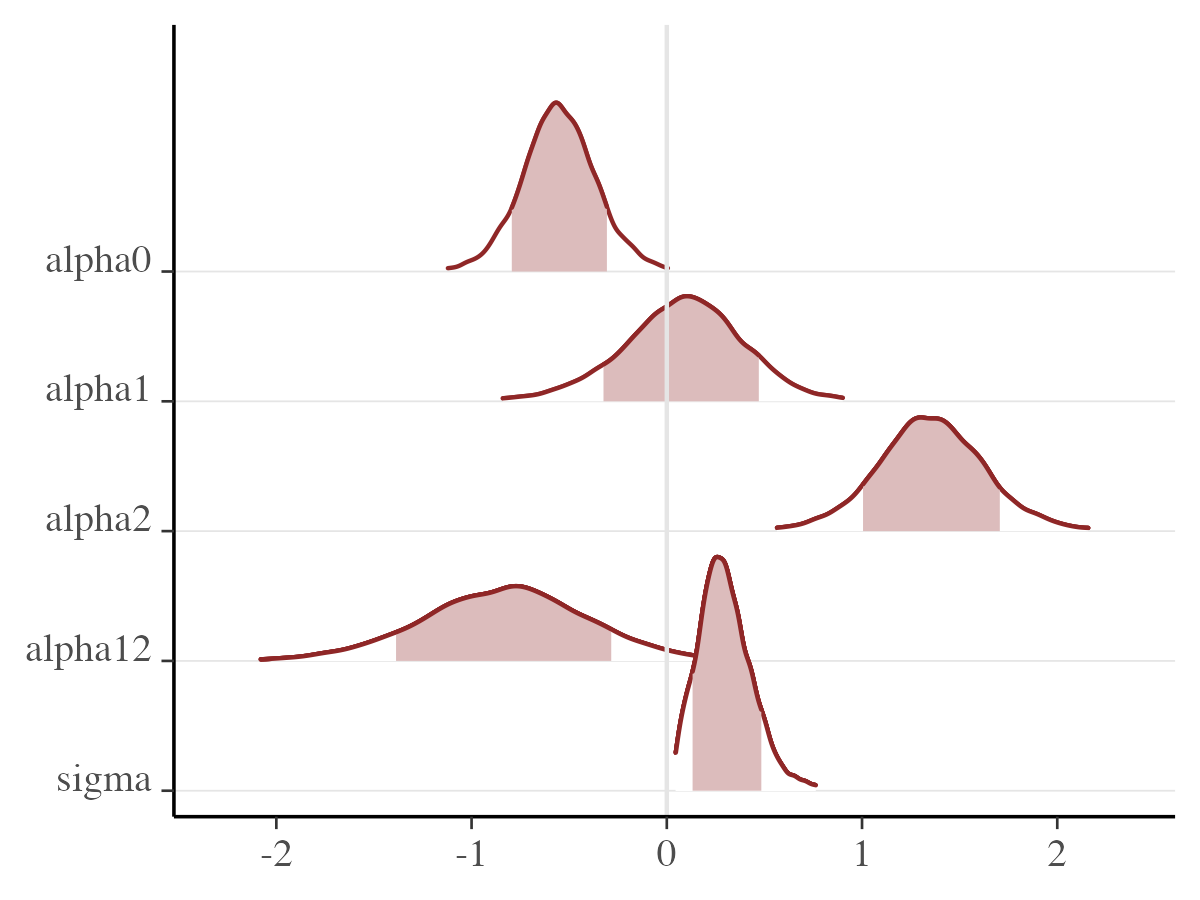
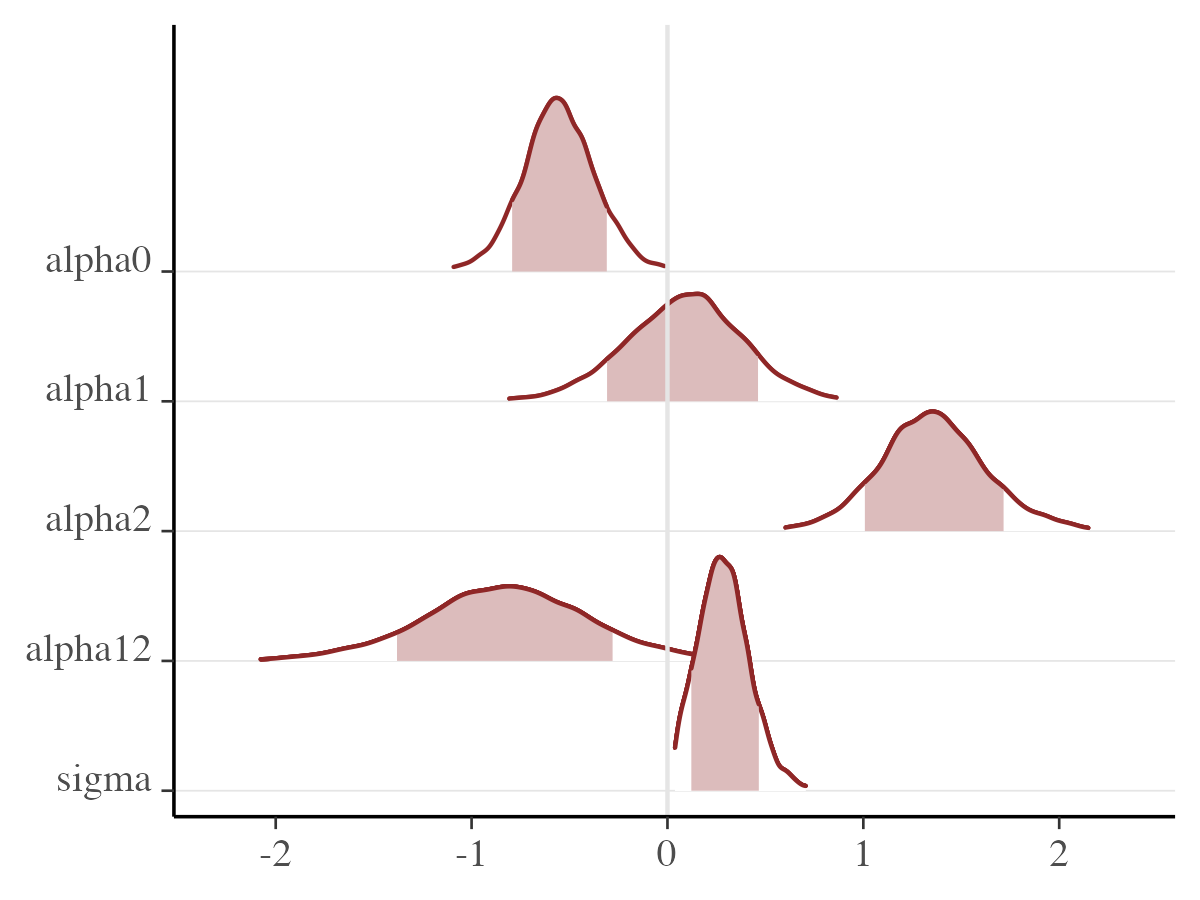
deploy: 7da60b03244aa2bed33e3e3292d3290ee1c009dc

diff --git a/articles/rjuliabugs.html b/articles/rjuliabugs.html
@@ -261,17 +261,17 @@ through <code>summary</code> function</p>
 <span><span class="co">#&gt; </span></span>
 <span><span class="co">#&gt; Summary Statistics:</span></span>
 <span><span class="co">#&gt; </span></span>
-<span><span class="co">#&gt;  parameters     mean     std     mcse ess_bulk ess_tail  rhat ess_per_sec</span></span>
-<span><span class="co">#&gt;         tau 38.19499 87.7708 5.207790    383.2    354.2 1.011          NA</span></span>
-<span><span class="co">#&gt;     alpha12 -0.83813  0.4283 0.007314   3413.9   4329.9 1.001          NA</span></span>
-<span><span class="co">#&gt;      alpha2  1.35857  0.2695 0.004753   3205.4   3827.6 1.001          NA</span></span>
-<span><span class="co">#&gt;      alpha1  0.08687  0.3147 0.005616   3158.4   3895.4 1.001          NA</span></span>
-<span><span class="co">#&gt;      alpha0 -0.55555  0.1928 0.003253   3481.0   4182.8 1.002          NA</span></span>
-<span><span class="co">#&gt;        b[1] -0.19515  0.2637 0.005728   2380.7   4131.8 1.002          NA</span></span>
-<span><span class="co">#&gt;        b[2]  0.01300  0.2267 0.002888   6299.0   4672.9 1.005          NA</span></span>
-<span><span class="co">#&gt;        b[3] -0.19822  0.2310 0.004860   2415.3   4143.3 1.002          NA</span></span>
-<span><span class="co">#&gt;        b[4]  0.28028  0.2569 0.006624   1520.1   4234.5 1.004          NA</span></span>
-<span><span class="co">#&gt;        b[5]  0.11782  0.2392 0.003572   4679.1   4643.2 1.002          NA</span></span>
+<span><span class="co">#&gt;  parameters      mean     std     mcse ess_bulk ess_tail  rhat ess_per_sec</span></span>
+<span><span class="co">#&gt;         tau 42.200346 96.7815 5.900641    298.1    344.5 1.014          NA</span></span>
+<span><span class="co">#&gt;     alpha12 -0.826292  0.4337 0.007385   3464.8   3851.8 1.002          NA</span></span>
+<span><span class="co">#&gt;      alpha2  1.350455  0.2702 0.004640   3485.5   3349.6 1.001          NA</span></span>
+<span><span class="co">#&gt;      alpha1  0.080853  0.3091 0.005319   3388.9   4392.6 1.002          NA</span></span>
+<span><span class="co">#&gt;      alpha0 -0.547457  0.1896 0.003195   3572.0   3701.3 1.002          NA</span></span>
+<span><span class="co">#&gt;        b[1] -0.201043  0.2580 0.006237   1854.3   3990.9 1.002          NA</span></span>
+<span><span class="co">#&gt;        b[2]  0.006336  0.2205 0.002939   5843.6   4046.4 1.003          NA</span></span>
+<span><span class="co">#&gt;        b[3] -0.205028  0.2327 0.005533   1848.0   4373.8 1.003          NA</span></span>
+<span><span class="co">#&gt;        b[4]  0.271345  0.2593 0.007282   1261.2   3767.5 1.003          NA</span></span>
+<span><span class="co">#&gt;        b[5]  0.113493  0.2397 0.003806   4255.1   4383.3 1.001          NA</span></span>
 <span><span class="co">#&gt;          ...</span></span>
 <span><span class="co">#&gt;   17 rows omitted</span></span></code></pre></div>
 <p>If we wish to obtain the summary statistics for each saved parameter,
@@ -382,7 +382,7 @@ package:</p>
 <span></span>
 <span><span class="co"># Example: effective sample size</span></span>
 <span><span class="fu">posterior</span><span class="fu">::</span><span class="fu"><a href="https://mc-stan.org/posterior/reference/ess_basic.html" class="external-link">ess_basic</a></span><span class="op">(</span><span class="va">posterior</span><span class="op">$</span><span class="va">params</span><span class="op">[</span>,,<span class="st">"alpha0"</span><span class="op">]</span><span class="op">)</span></span>
-<span><span class="co">#&gt; [1] 3512.924</span></span></code></pre></div>
+<span><span class="co">#&gt; [1] 3522.431</span></span></code></pre></div>
 </div>
 <div class="section level2">
 <h2 id="saving-and-loading-the-rjuliabugs-model">Saving and loading the <code>rjuliabugs</code> model<a class="anchor" aria-label="anchor" href="#saving-and-loading-the-rjuliabugs-model"></a>
